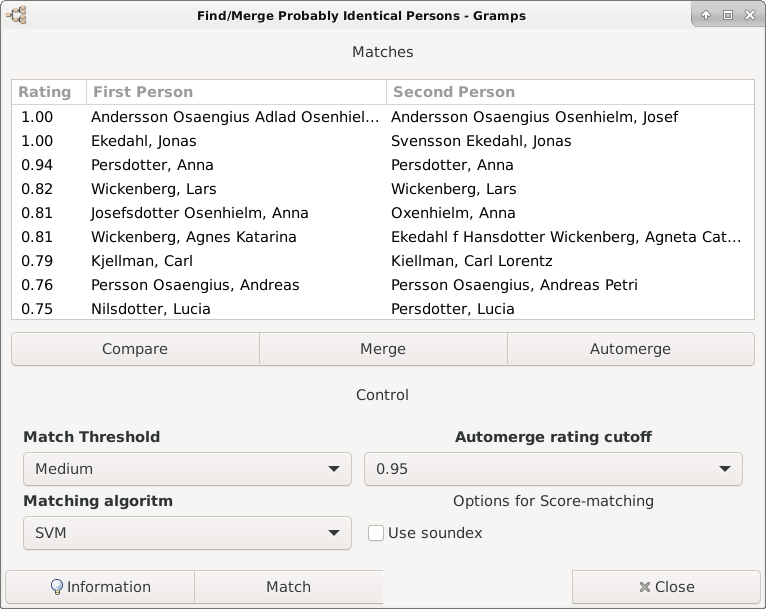
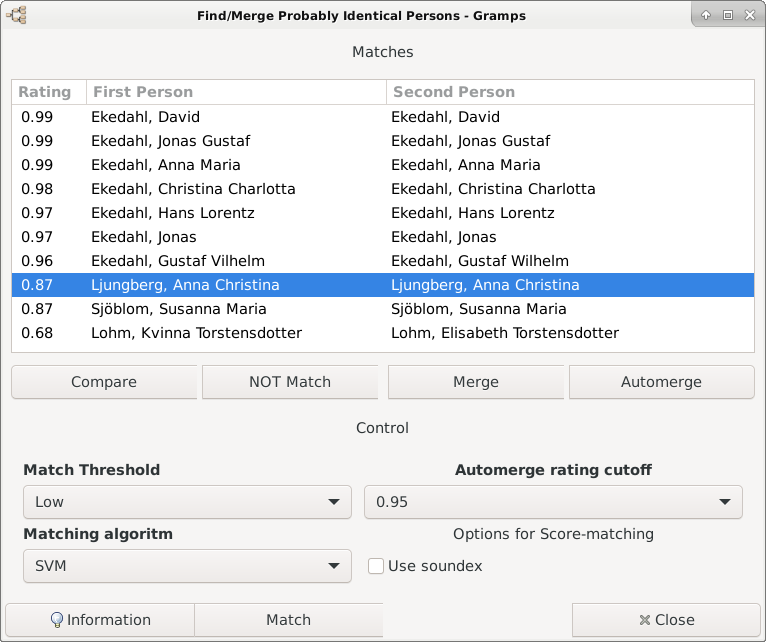
Added possibility to delete a match

diff --git a/treemerge.py b/treemerge.py
@@ -188,6 +188,8 @@ class TreeMerge(tool.Tool, ManagedWindow):  #CHECK use BatchTool when using auto
         matchbtn.connect('clicked', self.do_match)
         compbtn = top.get_object("cmpbtn")
         compbtn.connect('clicked', self.do_comp)
+        notmatchbtn = top.get_object("notmatch")
+        notmatchbtn.connect('clicked', self.do_notmatch)
         mergebtn = top.get_object("mergebtn")
         mergebtn.connect('clicked', self.do_merge)
         automergebtn = top.get_object("automerge")
@@ -215,6 +217,15 @@ class TreeMerge(tool.Tool, ManagedWindow):  #CHECK use BatchTool when using auto
         """Display the relevant portion of Gramps manual"""
         self.notImplem("Help")
         #display_help(WIKI_HELP_PAGE , WIKI_HELP_SEC)
+
+    def do_notmatch(self, obj):
+        store, iter = self.mlist.selection.get_selected()
+        if not iter:
+            self.infoMsg("Please select a match above")
+            return
+        (self.p1, self.p2) = self.mlist.get_object(iter)
+        self.dellist.add(self.p1)
+        self.redraw()
 
     def do_match(self, obj):
         threshold = self.menu.get_model()[self.menu.get_active()][1]

diff --git a/README.md b/README.md
@@ -75,6 +75,8 @@ Press **Compare** to see the two family-trees (colored blue and brown) for the m
 the selected pair (colored green). Dashed lines connect matched persons, color indicate rating
 (from green=1.0 via yellow to red=0.5).
 
+The **NOT Match** button will simply remove the selected match from the list.
+
 ![Graphical compare of match](/TreemergeCompare.png)
 
 Clicking on a person in the graph will set the active person which
